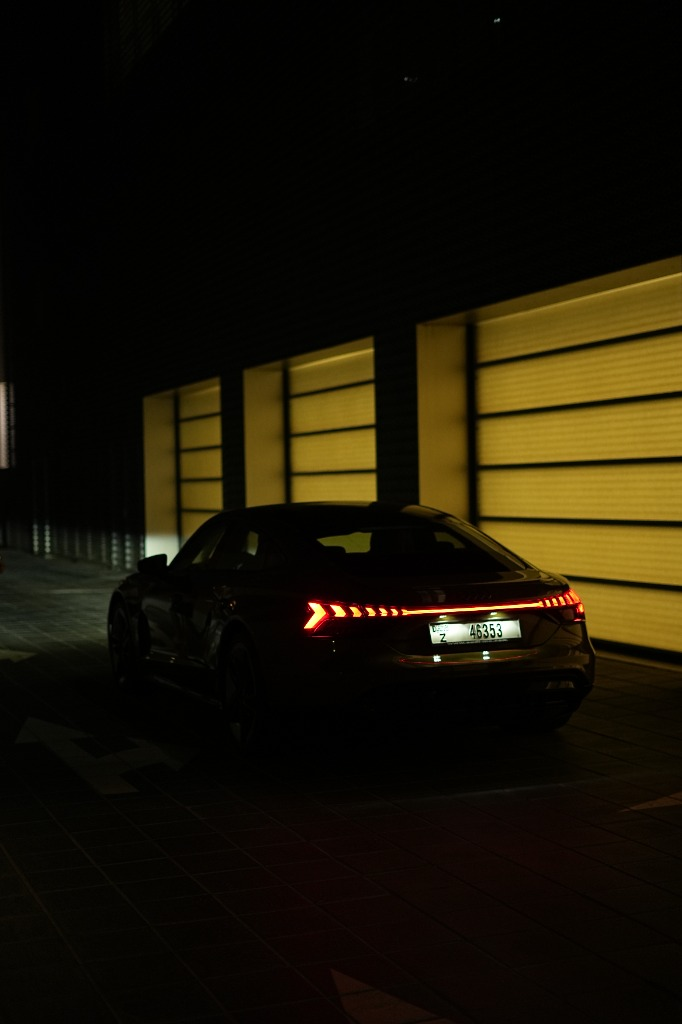
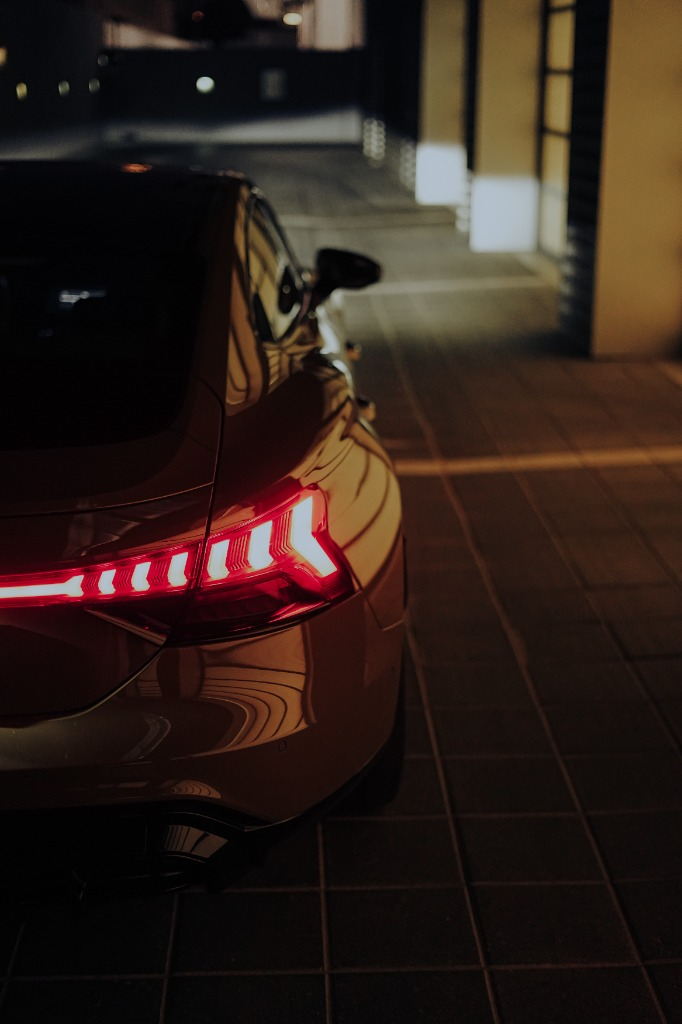
Update Home section hero background to close-up taillight shot

diff --git a/index.html b/index.html
@@ -35,7 +35,7 @@
     rel="stylesheet"
   />
 
-  <link rel="stylesheet" href="styles.css?v=6" />
+  <link rel="stylesheet" href="styles.css?v=7" />
 </head>
 <body>
   <a class="skip-link" href="#main-content">Skip to main content</a>
@@ -80,7 +80,7 @@
     <section class="hero" id="home" aria-labelledby="hero-heading">
       <div class="hero-media" aria-hidden="true">
         <img
-          src="assets/images/home-hero.jpg"
+          src="assets/images/home-hero.jpg?v=2"
           alt=""
           width="682"
           height="1024"

diff --git a/styles.css b/styles.css
@@ -495,8 +495,8 @@ ol {
   width: 100%;
   height: 100%;
   object-fit: cover;
-  object-position: 60% 60%;
-  filter: contrast(1.05) brightness(0.9);
+  object-position: 38% 53%;
+  filter: contrast(1.05) brightness(0.88);
   transform: scale(1.01);
 }
 
